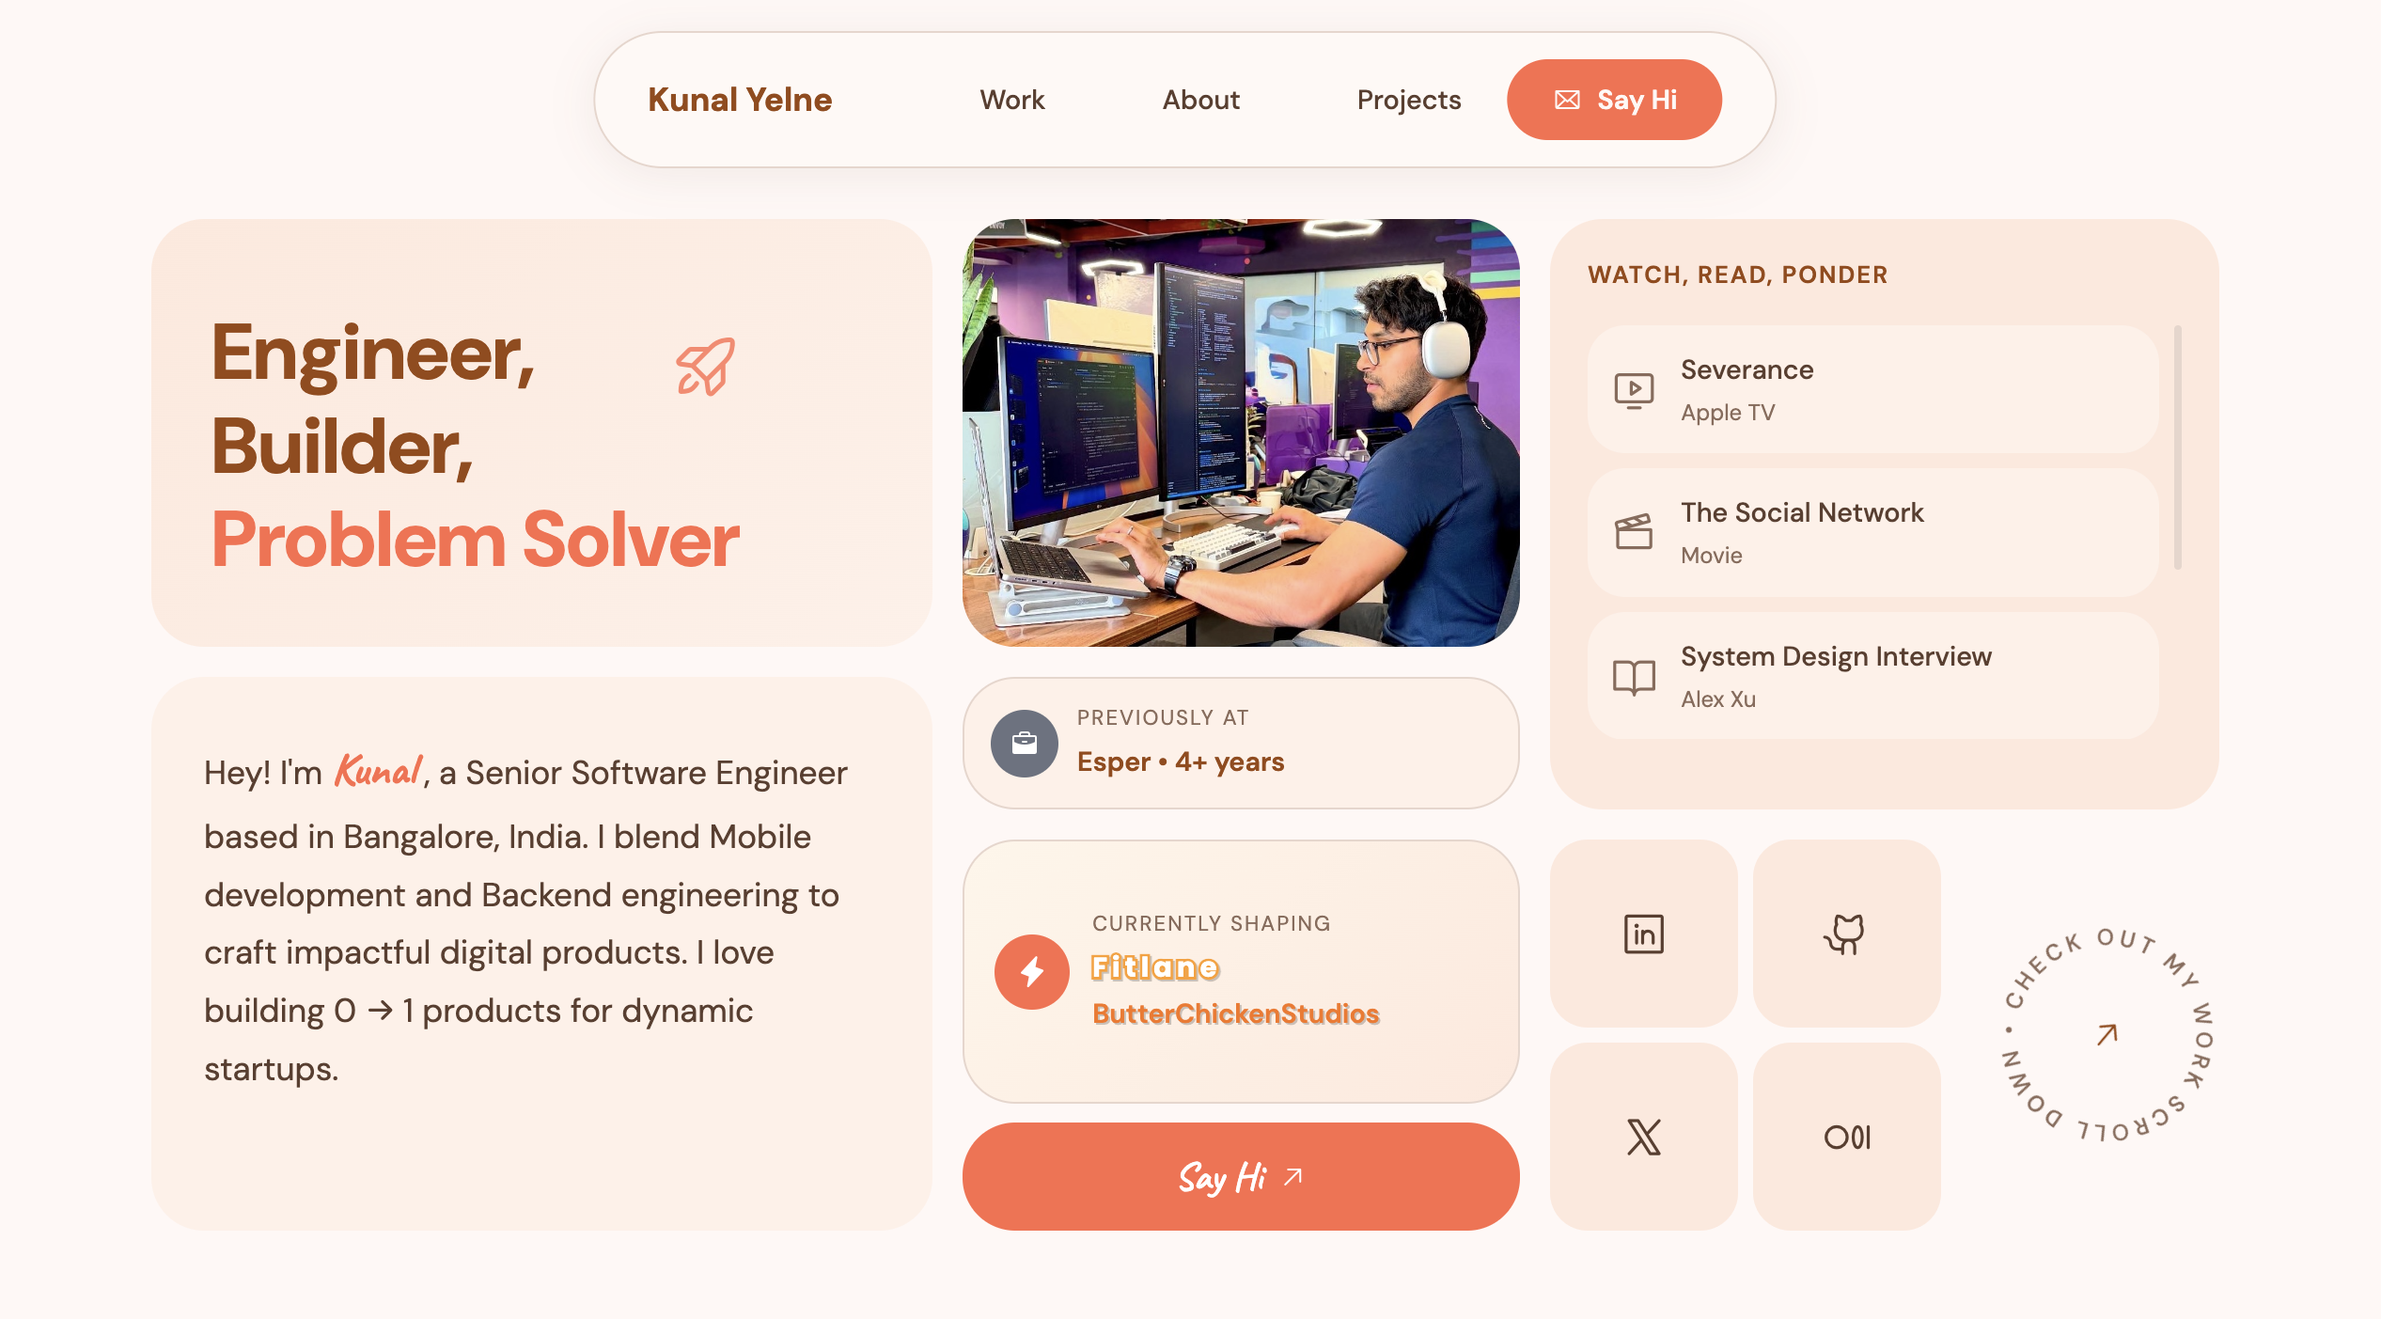
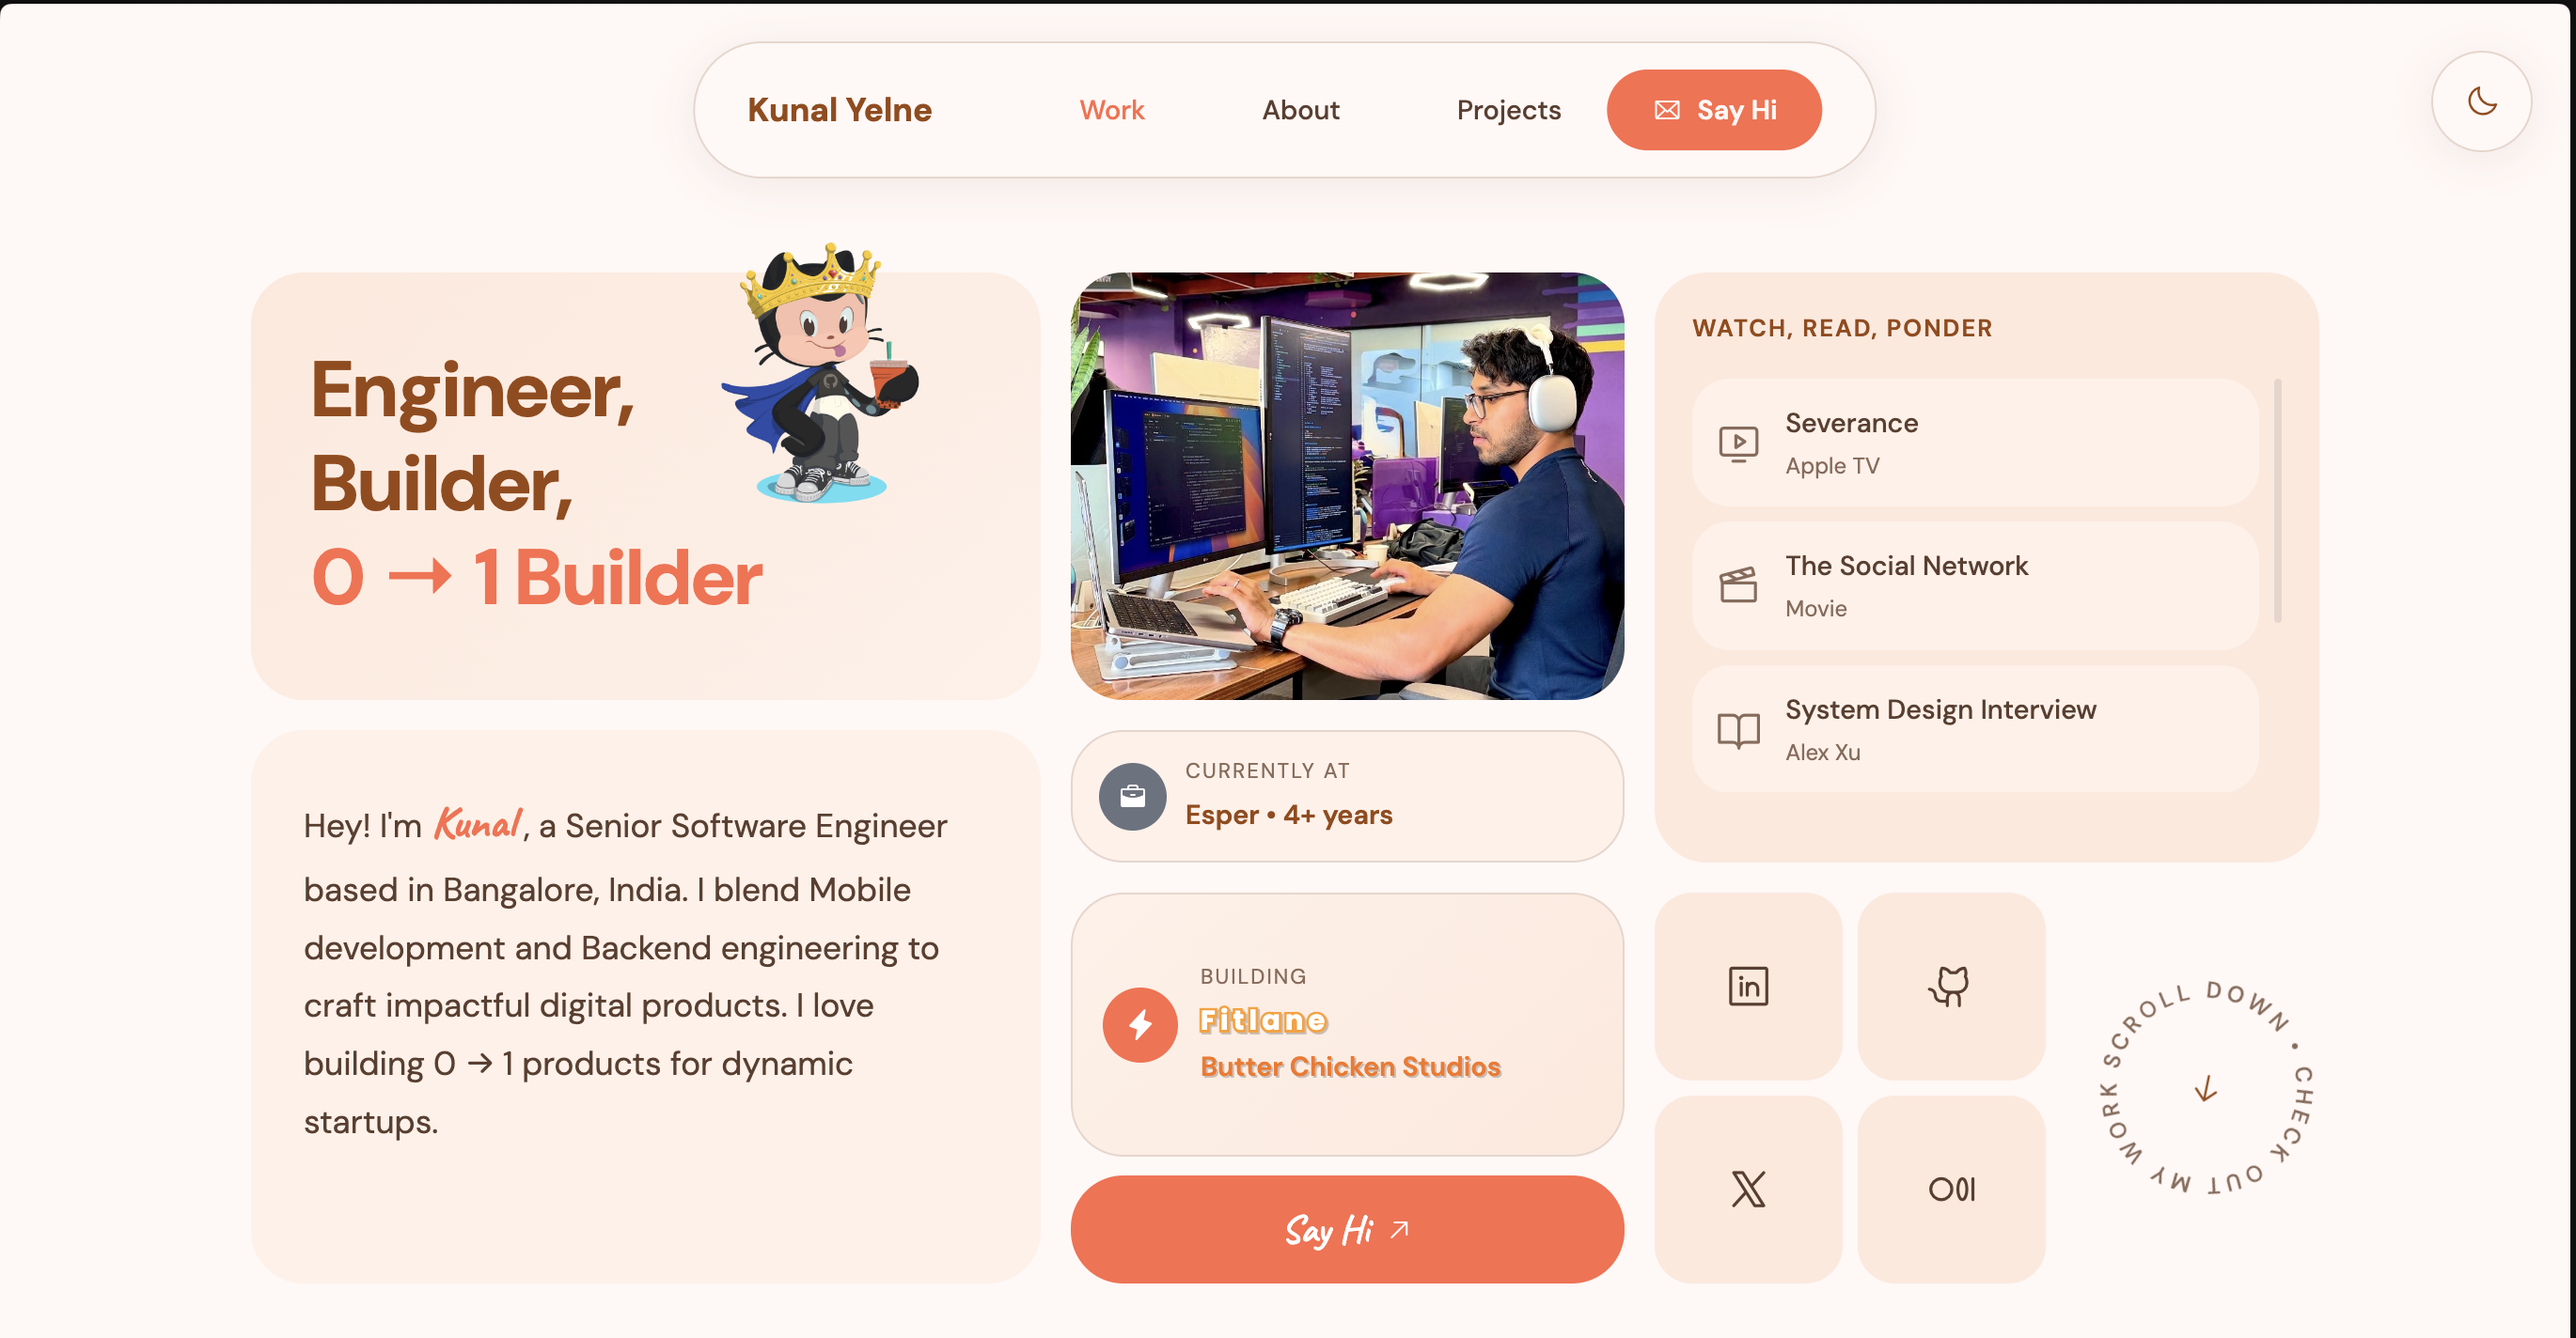
docs: Standardize "Butter Chicken Studios" naming, refine README headings, and add .DS_Store to gitignore.

diff --git a/index.html b/index.html
@@ -169,7 +169,7 @@
                                     class="fitlane-logo-stroke fitlane-logo-text">Fitlane</a>
                                 <br>
                                 <a href="https://butterchickenstudios.com" target="_blank"
-                                    class="butterchicken-link">ButterChickenStudios</a>
+                                    class="butterchicken-link">Butter Chicken Studios</a>
                             </span>
                         </p>
                     </div>

diff --git a/README.md b/README.md
@@ -2,29 +2,29 @@
 
 A professional portfolio showcasing 6+ years of experience in building high-scale mobile and backend systems. This site features a modern, responsive bento-grid design, a detailed professional timeline, and an interactive section for interests ("Watch, Read, Ponder").
 
-## 📸 Preview
+## Preview
 
 ![Portfolio Preview](assets/portfolio_preview.png)
 
-## 🚀 Key Projects
+## Key Projects 🚀
 
 - **Fitlane**: AI-powered fitness platform built with SwiftUI and Go microservices.
 - **Butter Chicken Studios**: Software studio creating innovative mobile and industry solutions.
 - **Enterprise MDM Platform**: Managed 1M+ Android/iOS devices across 50+ OEMs at Esper.
 - **Face Recognition System**: Real-time security system built with Raspberry Pi and OpenCV.
 
-## 🛠 Tech Arsenal
+## Tech Arsenal 🛠
 
 - **Mobile**: iOS (SwiftUI, UIKit), Android (Jetpack Compose, Kotlin), React Native.
 - **Languages**: Go, Swift, Kotlin, Python, TypeScript, Java, C++.
 - **Cloud & DevOps**: AWS, GCP, Docker, Kubernetes, Terraform, CI/CD.
 - **Backend**: PostgreSQL, Redis, GraphQL, Microservices, RESTful APIs.
 
-## 📖 About
+## About 📖
 
 Senior Software Engineer based in Bangalore, India. I specialize in the intersection of mobile development and backend engineering, with a passion for building 0 → 1 products for dynamic startups.
 
-## 🔗 Links
+## Links 🔗
 
 - **Portfolio**: [https://kunalyelne.github.io/portfolio](https://kunalyelne.github.io/portfolio)
 - **LinkedIn**: [kunalyelne](https://www.linkedin.com/in/kunalyelne)
